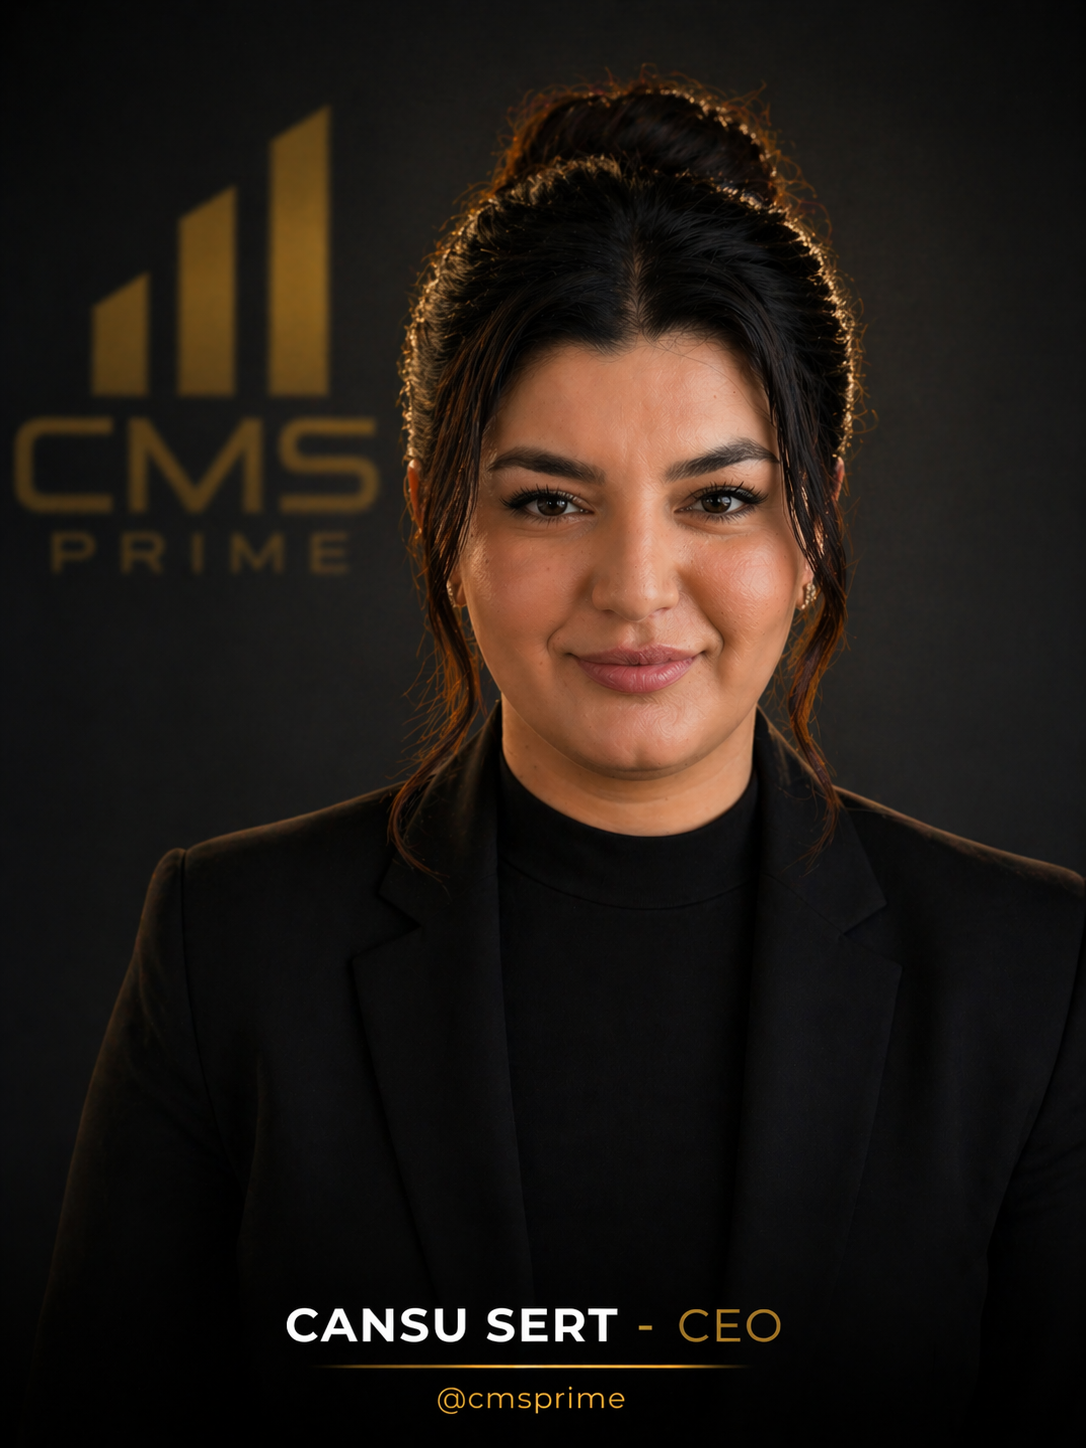
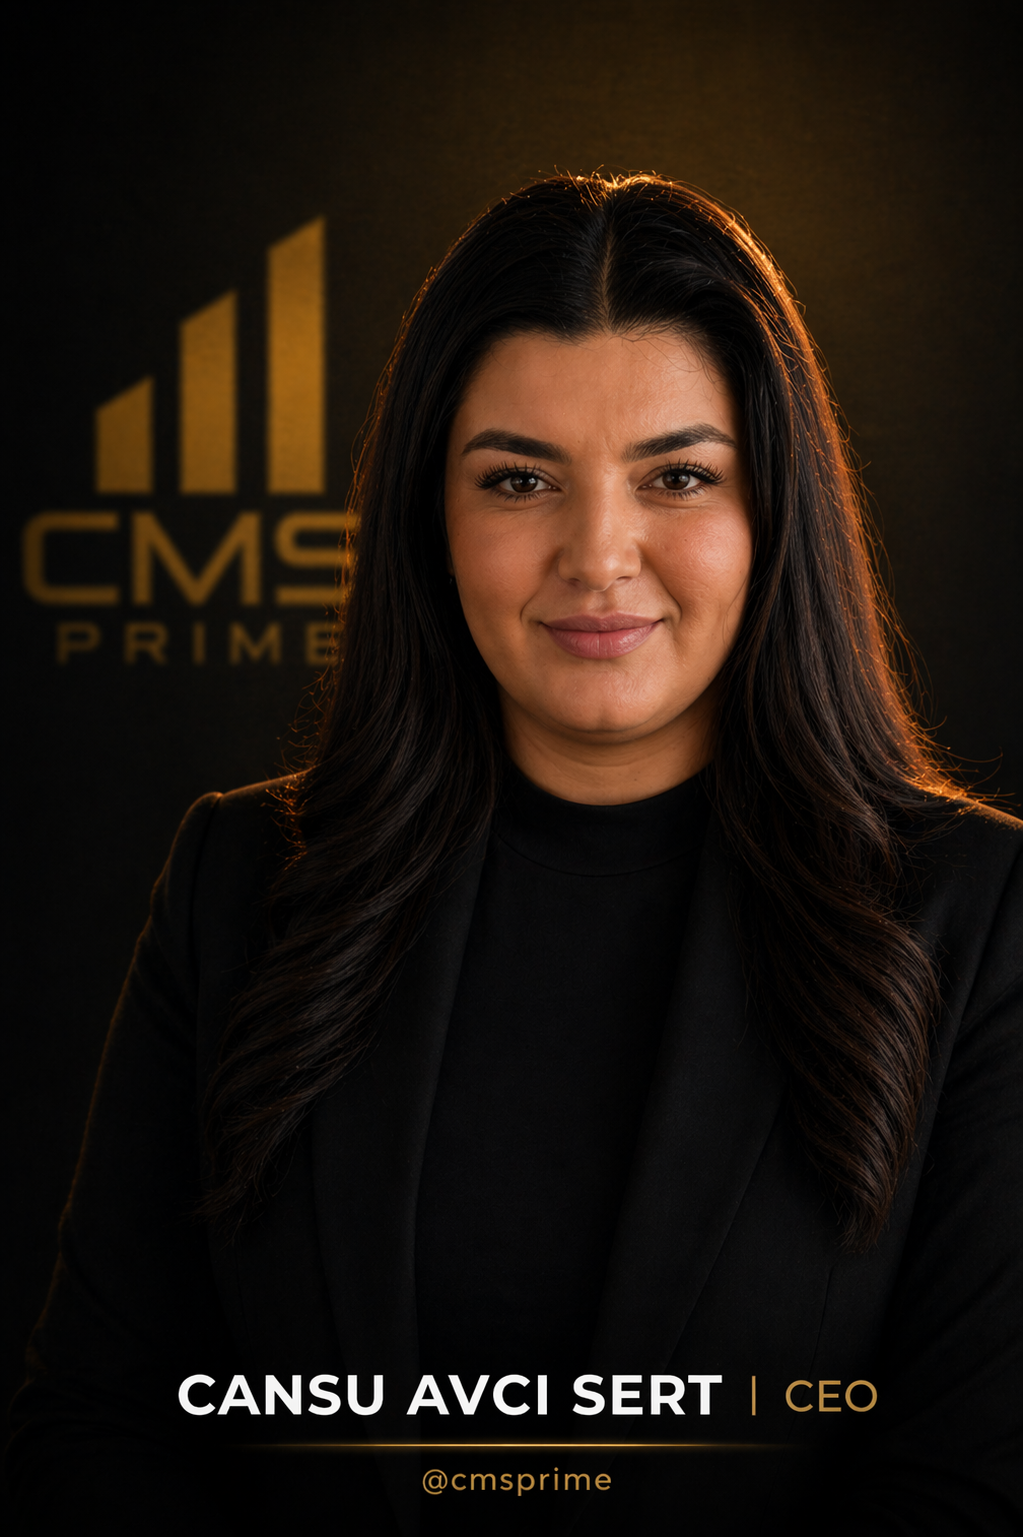
fix: update CEO image and name to Cansu Avcı Sert

diff --git a/src/App.jsx b/src/App.jsx
@@ -731,13 +731,13 @@ Mesaj: ${data.message || 'Bilgi almak istiyorum.'}`;
                 <div className="glass p-6 rounded-2xl group hover:border-[#facc15]/30 transition-all duration-500 shadow-2xl relative overflow-hidden">
                   <div className="aspect-[3/4] rounded-xl overflow-hidden mb-8 relative bg-black/40">
                     {cansuImg ? (
-                      <img src={cansuImg} alt="Cansu Sert" className="w-full h-full object-cover transition-all duration-700 group-hover:scale-105" />
+                      <img src={cansuImg} alt="Cansu Avcı Sert" className="w-full h-full object-cover transition-all duration-700 group-hover:scale-105" />
                     ) : (
                       <div className="w-full h-full bg-gray-800"></div>
                     )}
                     <div className="absolute inset-0 bg-gradient-to-t from-[#0B0F1A] via-transparent to-transparent opacity-60"></div>
                   </div>
-                  <h3 className="text-2xl font-black italic uppercase tracking-tighter">CANSU SERT</h3>
+                  <h3 className="text-2xl font-black italic uppercase tracking-tighter">CANSU AVCI SERT</h3>
                   <p className="text-[#facc15] font-black text-xs uppercase tracking-widest mt-2">CEO</p>
                 </div>
                 <div className="glass p-6 rounded-2xl group hover:border-[#facc15]/30 transition-all duration-500 shadow-2xl relative overflow-hidden">
